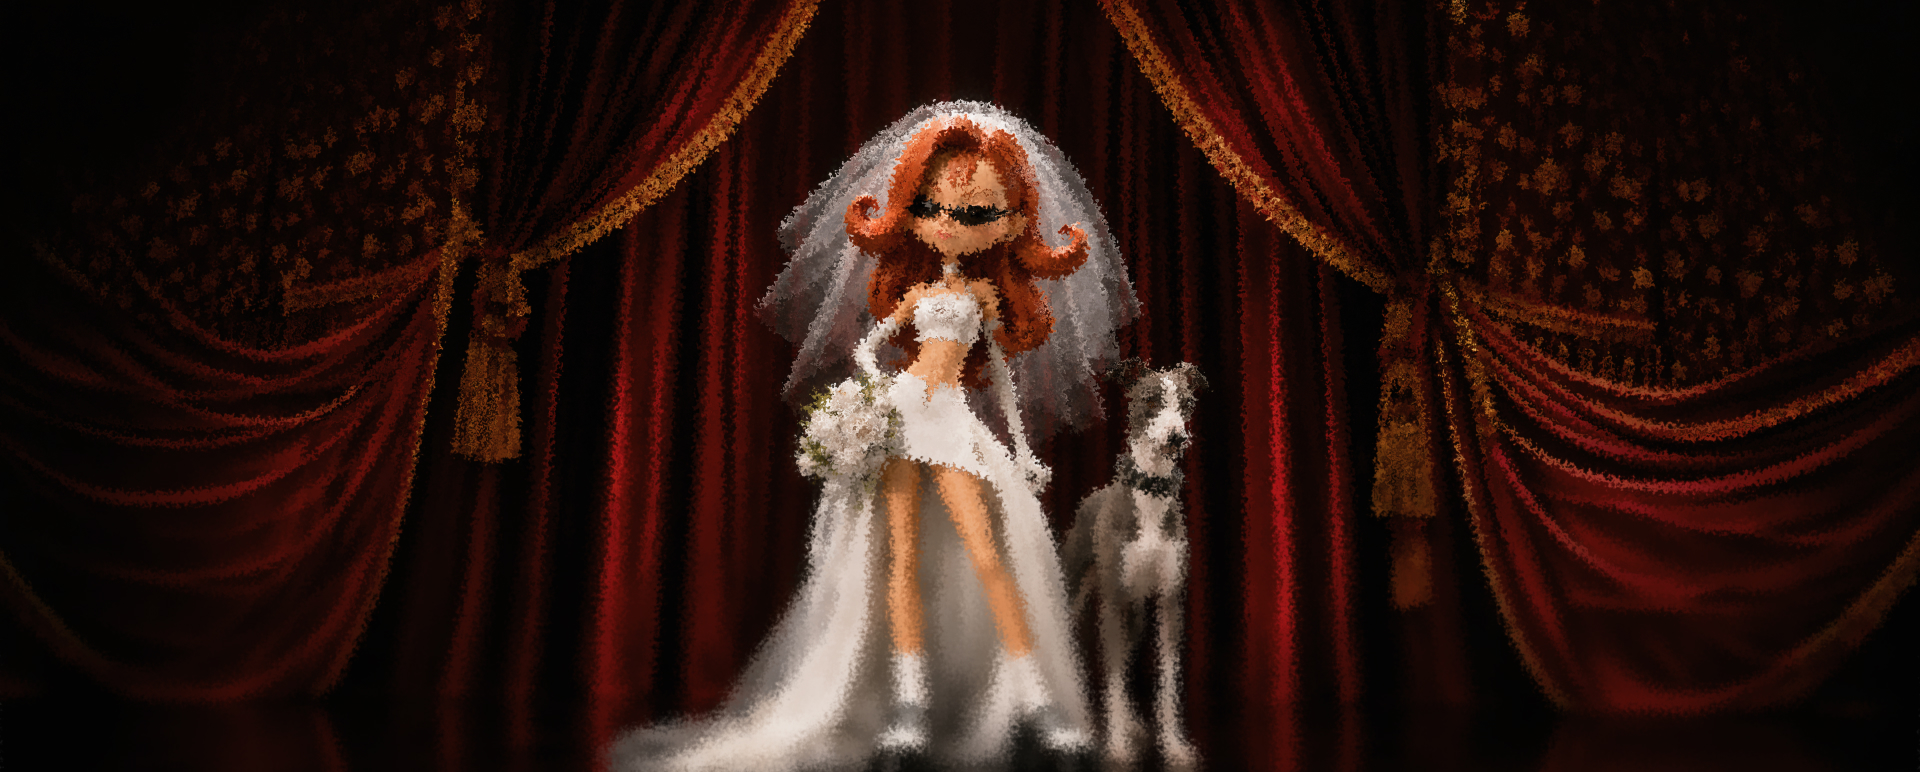
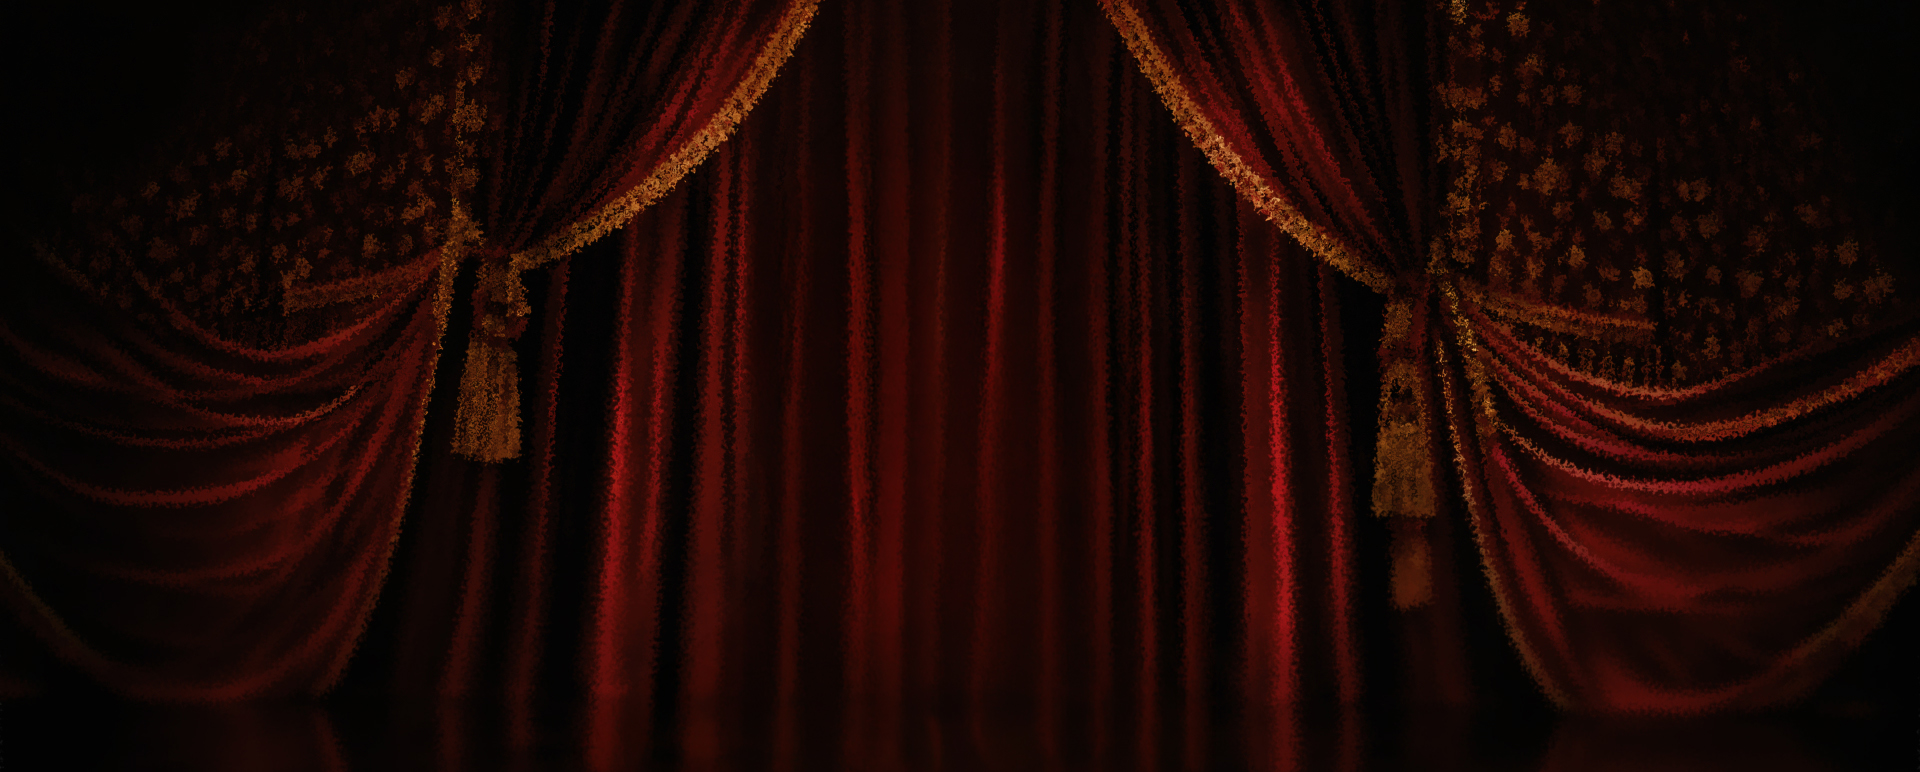
Сделать верстку плавно адаптивной

Changed region(s): [[0.3125, 0.1244, 0.625, 1.0]]

diff --git a/styles.css b/styles.css
@@ -10,7 +10,7 @@
 
 *{box-sizing:border-box}
 html,body{margin:0;background:#000;color:#fff;font-family:"Inter Tight",Arial,sans-serif}
-body{overflow-x:hidden}
+body{overflow-x:clip}
 main{width:100%}
 img{display:block}
 p,h1,h2{margin:0}
@@ -53,137 +53,164 @@ footer>div{position:absolute;top:0;left:3.7%;right:4.3%;display:flex;justify-con
 footer>div>p:last-child{font-size:20px;line-height:1.2}
 .footer-logo{position:absolute;top:104px;left:50%;transform:translateX(-50%);font-size:clamp(120px,14vw,202px);white-space:nowrap}
 
-@media(min-width:1200px) and (max-width:1599px){
-  .hero-blur{left:calc(50% - 13px);top:-78px;width:1862px;height:851px;transform:translateX(-50%)}
-  .hero-art{left:calc(50% - 13px);top:-77px;width:1862px;height:851px}
-  .hero h1{left:calc(50% - .5px);font-size:201.966px}
-  .hero-date,.hero-time{font-size:169.973px}
+@media(min-width:900px) and (max-width:1799px){
+  .hero-blur,.hero-art{left:49.0972%;top:-78px;width:129.3056%;height:851px;transform:translateX(-50%)}
+  .hero-art{top:-77px}
+  .hero h1{left:49.9653%;font-size:clamp(126px,14.025vw,201.966px)}
+  .hero-date,.hero-time{font-size:clamp(106px,11.804vw,169.973px)}
   .hero-date{left:0}.hero-time{right:0}
-  .hero-label{left:calc(50% + 555px);right:auto;transform:translateX(-50%)}
+  .hero-label{left:88.5417%;right:auto;transform:translateX(-50%)}
 
-  h2{font-size:58.217px}
-  .intro{left:60px;right:auto;width:1318px;grid-template-columns:auto 647px;gap:0}
-  .intro>div{width:647px;max-width:none}
-  .group-ten{left:33.49px;top:319.206px;width:714.51px}
-  .band{left:723px;right:auto;width:717px}
-  .ride-copy{left:59px;width:552px}
-  .ride-copy h2{width:563px}
-  .tear{left:-11px;bottom:-34px;width:1477px;height:126px}
+  h2{font-size:clamp(40px,4.043vw,58.217px)}
+  .intro{left:4.1667%;right:auto;width:91.5278%;grid-template-columns:minmax(0,1fr) 49.09%;gap:0}
+  .intro>div{width:100%;max-width:none}
+  .intro p:last-child,.ride-copy p,.gallery-copy p:last-child{font-size:clamp(16px,1.389vw,20px)}
+  .group-ten{left:2.326%;top:319.206px;width:49.619%}
+  .band{left:50.2083%;right:auto;width:49.7917%}
+  .ride-copy{left:4.0972%;width:38.3333%}
+  .ride-copy h2{width:100%}
+  .horse{left:25%;width:73.8194%}
+  .tear{left:-.7639%;width:102.5694%}
 
-  .gallery-copy{left:59px;right:auto;width:1321px;grid-template-columns:auto 649px;gap:0}
-  .gallery-copy>div{width:649px;max-width:none}
-  .gallery-copy>.brace,footer .brace{font-size:38.056px}
+  .gallery-copy{left:4.0972%;right:auto;width:91.7361%;grid-template-columns:minmax(0,1fr) 49.13%;gap:0}
+  .gallery-copy>div{width:100%;max-width:none}
+  .gallery-copy>.brace,footer .brace{font-size:clamp(28px,2.643vw,38.056px)}
   .photos{inset:0}
-  .p1{left:60px;top:280px;width:873px;height:561px}
-  .p2{left:955px;right:auto;top:280px;width:485px;height:728px}
-  .framed{left:558px;top:822px;width:416px;height:570px}
-  .framed img:last-child{left:65px;top:49px;width:310px;height:465px}
-  .p4{left:623px;top:1366px;width:314px;height:364px}
-  .p5{left:0;top:871px;width:597px;height:859px}
-  .p6{left:955px;right:auto;top:1028px;width:425px;height:702px}
+  .p1{left:4.1667%;top:280px;width:60.625%;height:561px}
+  .p2{left:66.3194%;right:auto;top:280px;width:33.6806%;height:728px}
+  .framed{left:38.75%;top:822px;width:28.8889%;height:570px}
+  .framed img:last-child{left:15.625%;top:49px;width:74.5192%;height:465px}
+  .p4{left:43.2639%;top:1366px;width:21.8056%;height:364px}
+  .p5{left:0;top:871px;width:41.4583%;height:859px}
+  .p6{left:66.3194%;right:auto;top:1028px;width:29.5139%;height:702px}
 
-  footer>div{left:53px;right:auto;width:1325px}
-  .footer-logo{left:calc(50% - .5px);font-size:201.966px}
+  footer>div{left:3.6806%;right:auto;width:92.0139%}
+  .footer-logo{left:49.9653%;font-size:clamp(126px,14.025vw,201.966px)}
 }
 
-@media(min-width:1600px){
+@media(min-width:1800px){
   .hero{height:772px}
-  .hero-blur,.hero-art{left:50%;top:-18px;width:1942px;height:887px;transform:translateX(-50%)}
+  .hero-blur,.hero-art{left:50%;top:-18px;width:101.1458%;height:887px;transform:translateX(-50%)}
   .hero-art{top:-17px}
   .hero h1{font-size:201.966px}
   .hero-date,.hero-time{top:620px;font-size:169.973px}
-  .hero-date{left:241px}.hero-time{right:241px}.hero-label{right:auto;left:1426px}
+  .hero-date{left:12.5521%}.hero-time{right:12.5521%}
+  .hero-label{left:78.9583%;right:auto;transform:translateX(-50%)}
 
-  .dress{height:991px}
-  .intro{left:241px;right:auto;width:1435px;grid-template-columns:735px 647px;gap:0}
-  .intro>div{width:647px;max-width:none;justify-self:start}
+  .intro{left:12.5521%;right:auto;width:74.7396%;grid-template-columns:51.2195% 45.0871%;gap:0}
+  .intro>div{width:100%;max-width:none;justify-self:start}
   .dress-collage{inset:0;max-width:none;transform:none}
-  .group-ten{left:199px;top:319.206px;width:714.51px}
-  .band{left:963px;right:auto;top:440px;width:717px;height:551px}
-
-  .ride{height:689px}
-  .ride-copy{left:241px;top:185px;width:552px}
-  .ride-copy h2{width:563px}
-  .horse{left:600px;top:-320px;width:1063px}
-  .tear{left:0;top:577px;bottom:auto;width:1941px;height:166px}
+  .group-ten{left:10.3646%;top:319.206px;width:37.2141%}
+  .band{left:50.1563%;right:auto;width:37.3438%}
+  .ride-copy{left:12.5521%;width:28.75%}
+  .ride-copy h2{width:100%}
+  .horse{left:31.25%;width:55.3646%}
+  .tear{left:0;top:577px;bottom:auto;width:101.0938%;height:166px}
 
   .gallery{height:2344px}
-  .gallery-copy{left:241px;right:auto;top:75px;width:1438px;grid-template-columns:739px 649px;gap:0}
-  .gallery-copy>div{width:649px;max-width:none;justify-self:start}
-  .gallery-copy>.brace{font-size:38.056px}
+  .gallery-copy{left:12.5521%;right:auto;top:75px;width:74.8958%;grid-template-columns:51.3908% 45.1321%;gap:0}
+  .gallery-copy>div{width:100%;max-width:none;justify-self:start}
+  .gallery-copy>.brace,footer .brace{font-size:38.056px}
   .photos{inset:0}
-  .p1{left:81.15px;top:315px;width:1164.171px;height:747.633px}
-  .p2{left:1274.06px;right:auto;top:315px;width:646.777px;height:970.166px}
-  .framed{left:745.04px;top:1037.54px;width:554.571px;height:759.869px}
-  .framed img:last-child{left:86.65px;top:65.32px;width:413.262px;height:619.893px}
-  .p4{left:831.69px;top:1762.75px;width:418.594px;height:485.25px}
-  .p5{left:1.17px;top:1102.86px;width:796.083px;height:1144.82px}
-  .p6{left:1274.28px;right:auto;top:1312.16px;width:566.569px;height:935.839px}
+  .p1{left:4.2266%;top:315px;width:60.6339%;height:747.633px}
+  .p2{left:auto;right:0;top:315px;width:33.6863%;height:970.166px}
+  .framed{left:38.8042%;top:1037.54px;width:28.8839%;height:759.869px}
+  .framed img:last-child{left:15.6247%;top:65.32px;width:74.5201%;height:619.893px}
+  .p4{left:43.3172%;top:1762.75px;width:21.8018%;height:485.25px}
+  .p5{left:.0609%;top:1102.86px;width:41.4627%;height:1144.82px}
+  .p6{left:66.3688%;right:auto;top:1312.16px;width:29.5088%;height:935.839px}
 
-  footer>div{left:243px;right:auto;width:1438px}
-  footer .brace{font-size:38.056px}
+  footer>div{left:12.6563%;right:auto;width:74.8958%}
   .footer-logo{font-size:201.966px}
 }
 
-@media(min-width:1600px) and (max-width:1799px){
-  :root{--desktop-canvas-x:calc((100vw - 1440px)/2)}
+@media(min-width:601px) and (max-width:899px){
+  .brace{font-size:22px}
+  .hero{height:665px}
+  .hero-blur,.hero-art{right:auto;bottom:auto;left:50%;width:clamp(1500px,220vw,1862px);height:clamp(685px,100.47vw,851px);transform:translateX(-50%);object-fit:fill}
+  .hero-blur{top:-4px}.hero-art{top:-3px}
+  .hero h1{inset:0;transform:none;width:100%;height:150px;font-size:clamp(87px,12vw,108px);line-height:normal;text-align:center;white-space:normal}
+  .hero h1 span{position:absolute;left:50%;top:-20px;display:block;transform:translateX(-50%);white-space:nowrap}
+  .hero h1 span+span{top:64px;margin:0}
+  .hero-label{top:150px;right:5%;font-size:20px}
+  .hero-fade{position:absolute;z-index:2;inset:418px 0 auto;height:247px;background:linear-gradient(transparent,#000)}
+  .hero-date,.hero-time{font-size:clamp(82px,11vw,99px);line-height:normal}
+  .hero-date{top:510px;left:0}.hero-time{top:580px;right:0}
 
-  .hero{height:700px}
-  .hero-blur{left:calc(50% - 13px);top:-78px;width:1862px;height:851px}
-  .hero-art{left:calc(50% - 13px);top:-77px;width:1862px;height:851px}
-  .hero-date,.hero-time{top:557px}
-  .hero-date{left:var(--desktop-canvas-x)}
-  .hero-time{right:var(--desktop-canvas-x)}
-  .hero-label{left:calc(50% + 555px);right:auto;transform:translateX(-50%)}
+  .dress{height:1000px}
+  .intro{top:47px;left:5%;right:5%;display:flex;flex-direction:column;gap:18px}
+  .intro>div{max-width:none}
+  h2{font-size:clamp(38px,5.5vw,49px)}
+  .intro p:last-child,.ride-copy p,.gallery-copy p:last-child{font-size:clamp(16px,2.25vw,19px);margin-top:7px}
+  .group-ten{left:-3%;top:330px;width:82%;height:auto}
+  .band{left:auto;right:0;top:650px;width:66%;height:350px}
 
-  .dress>.grain{background-position:calc(var(--desktop-canvas-x) - 511px) -41px}
-  .ride>.grain{background-position:calc(var(--desktop-canvas-x) - 511px) -1032px}
-  .intro{left:calc(var(--desktop-canvas-x) + 60px);right:auto;width:1318px;grid-template-columns:auto 647px}
-  .group-ten{left:calc(var(--desktop-canvas-x) + 33.49px);top:319.206px;width:714.51px}
-  .band{left:calc(var(--desktop-canvas-x) + 723px);right:auto;width:717px}
-  .ride-copy{left:calc(var(--desktop-canvas-x) + 59px);width:552px}
-  .horse{left:calc(var(--desktop-canvas-x) + 360px);top:-320px;width:1063px}
-  .tear{left:calc(var(--desktop-canvas-x) - 11px);top:597px;width:1477px;height:126px}
+  .ride{height:800px;overflow:hidden}
+  .ride-copy{top:64px;left:5%;width:52%}
+  .horse{left:16%;top:165px;width:82%;height:auto}
+  .tear{left:-20%;bottom:0;width:140%;height:80px}
 
-  .gallery{height:1816px}
-  .gallery-copy{left:calc(var(--desktop-canvas-x) + 59px);right:auto;top:57px;width:1321px;grid-template-columns:auto 649px}
-  .photos{inset:0}
-  .p1{left:calc(var(--desktop-canvas-x) + 60px);top:280px;width:873px;height:561px}
-  .p2{left:calc(var(--desktop-canvas-x) + 955px);right:auto;top:280px;width:485px;height:728px}
-  .framed{left:calc(var(--desktop-canvas-x) + 558px);top:822px;width:416px;height:570px}
-  .framed img:last-child{left:65px;top:49px;width:310px;height:465px}
-  .p4{left:calc(var(--desktop-canvas-x) + 623px);top:1366px;width:314px;height:364px}
-  .p5{left:var(--desktop-canvas-x);top:871px;width:597px;height:859px}
-  .p6{left:calc(var(--desktop-canvas-x) + 955px);right:auto;top:1028px;width:425px;height:702px}
+  .gallery{height:1900px}
+  .gallery-copy{top:28px;left:5%;right:5%;display:flex;flex-direction:column;gap:18px}
+  .gallery-copy>div{max-width:none}
+  .photos{inset:300px 0 40px}
+  .p1{left:0;top:0;width:100%;height:400px}
+  .p2{left:5%;right:auto;top:420px;width:42%;height:400px}
+  .framed{left:42%;top:390px;width:60%;height:460px}
+  .framed img:last-child{left:16%;top:40px;width:68%;height:380px}
+  .p4{left:5%;top:850px;width:90%;height:580px}
+  .p5{left:0;top:1450px;width:48%;height:400px}
+  .p6{left:48%;right:auto;top:1450px;width:52%;height:400px}
 
-  footer>div{left:calc(var(--desktop-canvas-x) + 53px);right:auto;width:1325px}
+  footer{height:280px}
+  footer>div{top:0;left:5%;right:5%}
+  .footer-logo{font-size:clamp(100px,14vw,126px)}
 }
 
 @media(max-width:600px){
-  .brace{font-size:18px}.hero{height:665px}
-  .hero-blur,.hero-art{right:auto;bottom:auto;width:1500px;height:685px;left:calc(37.5% + 39.63px);transform:translateX(-50%);object-fit:fill}
+  .brace{font-size:clamp(16px,4.58vw,18px)}
+  .hero{height:min(169.211vw,665px)}
+  .hero-blur,.hero-art{right:auto;bottom:auto;width:min(381.679vw,1500px);height:min(174.3vw,685px);left:calc(37.5% + min(10.084vw,39.63px));transform:translateX(-50%);object-fit:fill}
   .hero-blur{top:-4px}.hero-art{top:-3px}
-  .hero h1{inset:0;transform:none;width:100%;height:135px;font-size:87.164px;line-height:normal;text-align:center;white-space:normal}
-  .hero h1 span{position:absolute;left:calc(50% - 3.5px);top:-20px;display:block;transform:translateX(-50%);white-space:nowrap}
-  .hero h1 span+span{left:calc(50% - 3px);top:47px;margin:0}
-  .hero-label{top:135px;left:322px;right:auto;transform:translateX(-50%);font-size:18px}
-  .hero-fade{position:absolute;z-index:2;left:0;right:0;top:418px;height:247px;background:linear-gradient(transparent,#000)}
-  .hero-date,.hero-time{font-size:87.164px;line-height:normal;transform:translateX(-50%)}
-  .hero-date{top:517px;left:124.5px}.hero-time{top:587px;left:277px;right:auto}
-  .dress{height:970px}.intro{top:47px;left:20px;right:17px;display:flex;flex-direction:column;gap:20px}.intro>div{max-width:none}
+  .hero h1{inset:0;transform:none;width:100%;height:min(34.351vw,135px);font-size:min(22.179vw,87.164px);line-height:normal;text-align:center;white-space:normal}
+  .hero h1 span{position:absolute;left:49.109%;top:-20px;display:block;transform:translateX(-50%);white-space:nowrap}
+  .hero h1 span+span{left:49.237%;top:min(11.959vw,47px);margin:0}
+  .hero-label{top:min(34.351vw,135px);left:81.934%;right:auto;transform:translateX(-50%)}
+  .hero-fade{position:absolute;z-index:2;left:0;right:0;top:min(106.361vw,418px);height:min(62.85vw,247px);background:linear-gradient(transparent,#000)}
+  .hero-date,.hero-time{font-size:min(22.179vw,87.164px);line-height:normal;transform:translateX(-50%)}
+  .hero-date{top:min(131.552vw,517px);left:31.679%}.hero-time{top:min(149.364vw,587px);left:70.483%;right:auto}
+
+  .dress{height:970px}
+  .intro{top:47px;left:5.089%;right:4.326%;display:flex;flex-direction:column;gap:20px}
+  .intro>div{max-width:none}
   .dress>.grain{background-size:1609px 1007px;background-position:-891px -78px}
-  h2{font-size:36px}.intro p:last-child,.ride-copy p,.gallery-copy p:last-child{font-size:16px;margin-top:6px}
-  .group-ten{left:-21px;top:294px;width:458px;height:auto}.band{left:-1px;top:668px;width:394px;height:302px}
-  .ride{height:756px;overflow:hidden}.ride>.grain{background-size:1609px 1007px;background-position:-891px -61px}.ride-copy{top:64px;left:20px;width:356px}.horse{left:-76px;top:154px;width:481px;height:auto}
-  .tear{left:-187px;bottom:0;width:820px;height:70px}
-  .gallery{height:1525px}.gallery-copy{top:20px;left:20px;right:17px;display:flex;flex-direction:column;gap:20px}.gallery-copy>div{max-width:none}
-  .photos{inset:228px 0 49px}.p1{left:0;top:0;width:393px;height:253px}.p2{left:20px;top:272px;width:167px;height:251px}
-  .framed{left:168px;top:241px;width:246px;height:308px}.framed img:last-child{left:39px;top:31px;width:167px;height:251px}
-  .p4{left:19px;top:499.1px;width:357px;height:634.9px;object-fit:fill;clip-path:inset(47.9px 0 173px 0)}
-  .p5{left:-17.33px;top:956.04px;width:228.14px;height:324.79px;object-fit:fill;clip-path:inset(23.96px 23.81px 32.83px 17.33px)}
-  .p6{display:block;left:178.56px;top:971.88px;width:245.97px;height:308.23px;object-fit:fill;clip-path:inset(8.12px 31.53px 32.11px 28.44px)}
-  footer{height:280px}footer>div{top:0;left:0;right:0;display:block;text-align:center}footer>div>p:last-child{font-size:16px;line-height:1.2;width:258px;margin:11px auto 0}
-  .footer-logo{display:block;inset:0;transform:none;width:100%;height:280px;font-size:87.164px;line-height:normal;text-align:center;white-space:normal}
-  .footer-logo span{position:absolute;left:calc(50% - .5px);top:140px;display:block;transform:translateX(-50%);white-space:nowrap}
+  h2{font-size:clamp(30px,9.16vw,36px)}
+  .intro p:last-child,.ride-copy p,.gallery-copy p:last-child{font-size:clamp(14px,4.071vw,16px);margin-top:6px}
+  .group-ten{left:-5.344%;top:294px;width:116.539%;height:auto}
+  .band{left:-.254%;top:668px;width:100.254%;height:302px}
+
+  .ride{height:756px;overflow:hidden}
+  .ride>.grain{background-size:1609px 1007px;background-position:-891px -61px}
+  .ride-copy{top:64px;left:5.089%;width:90.585%}
+  .horse{left:-19.338%;top:154px;width:122.392%;height:auto}
+  .tear{left:-47.583%;bottom:0;width:208.651%;height:70px}
+
+  .gallery{height:1525px}
+  .gallery-copy{top:20px;left:5.089%;right:4.326%;display:flex;flex-direction:column;gap:20px}
+  .gallery-copy>div{max-width:none}
+  .photos{inset:228px 0 49px}
+  .p1{left:0;top:0;width:100%;height:253px}
+  .p2{left:5.089%;top:272px;width:42.494%;height:251px}
+  .framed{left:42.748%;top:241px;width:62.595%;height:308px}
+  .framed img:last-child{left:15.854%;top:31px;width:67.886%;height:251px}
+  .p4{left:4.835%;top:499.1px;width:90.84%;height:634.9px;object-fit:fill;clip-path:inset(47.9px 0 173px 0)}
+  .p5{left:-4.41%;top:956.04px;width:58.05%;height:324.79px;object-fit:fill;clip-path:inset(23.96px 10.437% 32.83px 7.596%)}
+  .p6{display:block;left:45.435%;top:971.88px;width:62.588%;height:308.23px;object-fit:fill;clip-path:inset(8.12px 12.818% 32.11px 11.562%)}
+
+  footer{height:280px}
+  footer>div{top:0;left:0;right:0;display:block;text-align:center}
+  footer>div>p:last-child{font-size:clamp(14px,4.071vw,16px);line-height:1.2;width:65.649%;margin:11px auto 0}
+  .footer-logo{display:block;inset:0;transform:none;width:100%;height:280px;font-size:min(22.179vw,87.164px);line-height:normal;text-align:center;white-space:normal}
+  .footer-logo span{position:absolute;left:49.873%;top:140px;display:block;transform:translateX(-50%);white-space:nowrap}
   .footer-logo span+span{left:50%;top:207px;margin:0}
 }
